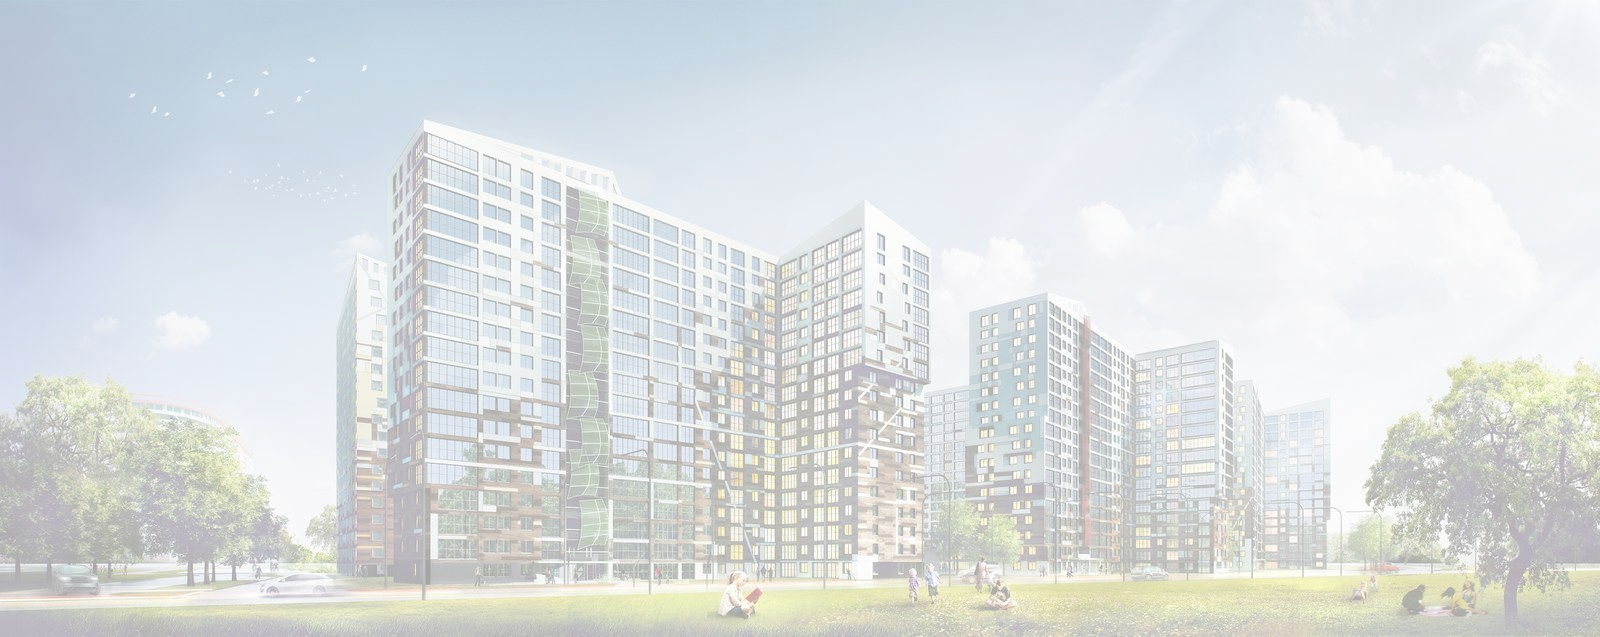
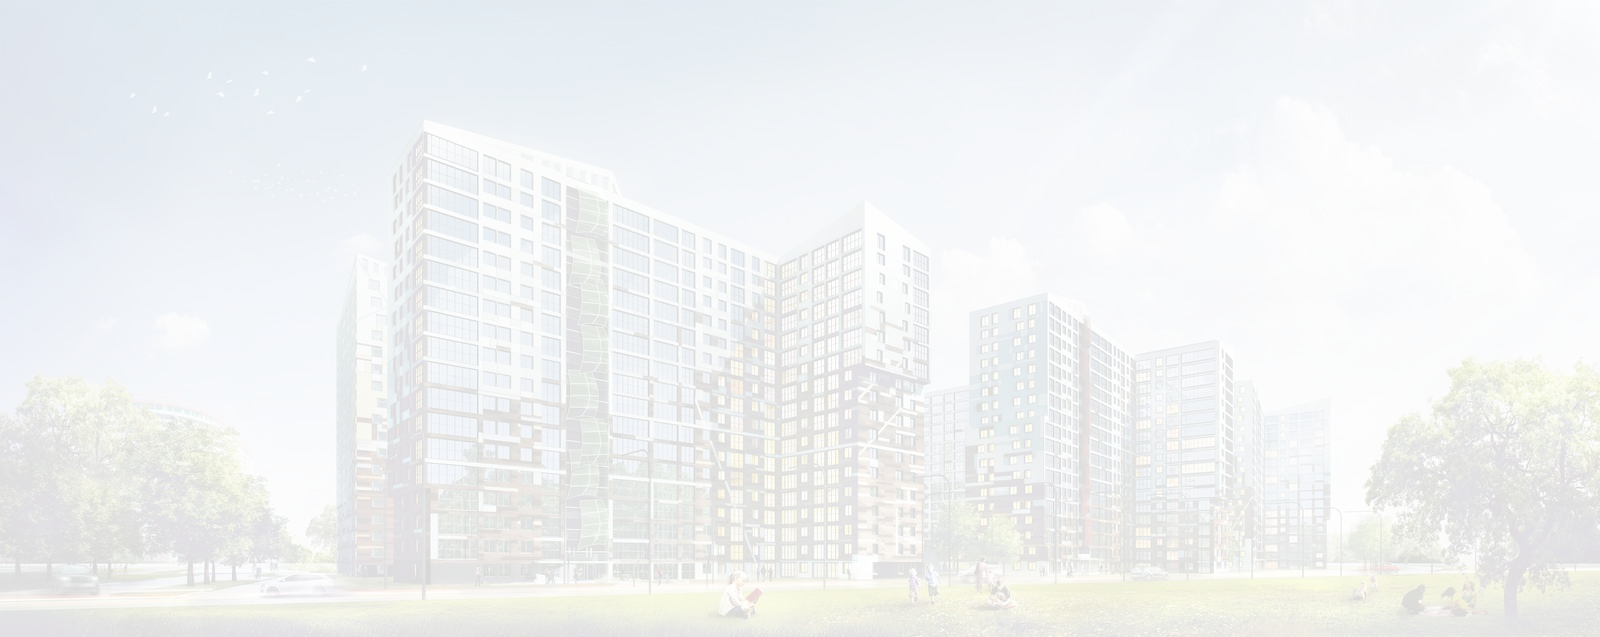
removed files

diff --git a/src/CardList.js b/src/CardList.js
@@ -59,72 +59,72 @@ const Click = (a) => {
         //main logic
         /*
         * 🖨 Печать и копирование:
-        📄1-20 страниц - 5 руб/лист,
-        📄21-40 страниц - 4 руб/лист,
-        📄41+ страниц - 3 руб/лист.
+        📄1-10 страниц - 5 руб/лист,
+        📄11-50 страниц - 4 руб/лист,
+        📄51+ страниц - 3 руб/лист.
 
         📇 Скан:
-        📄1-5 страниц - 12 руб/лист,
-        📄6-10 страниц - 10 руб/лист,
-        📄11+ страниц - 8 руб/лист.
+        📄1-20 страниц - 12 руб/лист,
+        📄21-50 страниц - 10 руб/лист,
+        📄51+ страниц - 8 руб/лист.
         * */
 
-        if (service[0].id === 1 || service[0].id === 2) {
+        if (service[0].id == 1 || service[0].id == 2) {
 
             console.log(pageCount)
 
             if (pageCount >= 1 && pageCount <= 20) {
                 result.innerHTML = 'Ваша цена составила: ' + (pageCount * 5) + ' руб.'
-                pricedesc.innerHTML = '📄1-20 страниц - 5 руб/лист,\n' +
-                    '        📄21-40 страниц - 4 руб/лист,\n' +
-                    '        📄41+ страниц - 3 руб/лист.'
+                pricedesc.innerHTML = '📄1-10 страниц - 5 руб/лист\n' +
+                    '        📄11-50 страниц - 4 руб/лист,\n' +
+                    '        📄51+ страниц - 3 руб/лист.'
             }
             if (pageCount >= 21 && pageCount <= 40) {
                 result.innerHTML = 'Ваша цена составила: ' + (pageCount * 4) + ' руб.'
-                pricedesc.innerHTML = '📄1-20 страниц - 5 руб/лист,\n' +
-                '        📄21-40 страниц - 4 руб/лист,\n' +
-                '        📄41+ страниц - 3 руб/лист.'
+                pricedesc.innerHTML = '📄1-10 страниц - 5 руб/лист\n' +
+                    '        📄11-50 страниц - 4 руб/лист,\n' +
+                    '        📄51+ страниц - 3 руб/лист.'
             }
             if (pageCount >= 41 && pageCount <= 500) {
                 result.innerHTML = 'Ваша цена составила: ' + (pageCount * 3) + ' руб.'
-                pricedesc.innerHTML = '📄1-20 страниц - 5 руб/лист,\n' +
-                '        📄21-40 страниц - 4 руб/лист,\n' +
-                '        📄41+ страниц - 3 руб/лист.'
+                pricedesc.innerHTML = '📄1-10 страниц - 5 руб/лист\n' +
+                    '        📄11-50 страниц - 4 руб/лист,\n' +
+                    '        📄51+ страниц - 3 руб/лист.'
             }
             if (pageCount < 1 || pageCount > 500) {
                 result.innerHTML = ''
                 alert('Выберите число страниц от 1 до 500')
-                pricedesc.innerHTML = '📄1-20 страниц - 5 руб/лист,\n' +
-                '        📄21-40 страниц - 4 руб/лист,\n' +
-                '        📄41+ страниц - 3 руб/лист.'
+                pricedesc.innerHTML = '📄1-20 страниц - 12 руб/лист,\n' +
+                    '        📄21-50 страниц - 10 руб/лист,\n' +
+                    '        📄51+ страниц - 8 руб/лист.'
             }
         }
 
-        if (service[0].id === 3) {
+        if (service[0].id == 3) {
             if (pageCount >= 1 && pageCount <= 5) {
                 result.innerHTML = 'Ваша цена составила: ' + (pageCount * 12) + ' руб.'
-                pricedesc.innerHTML = '📄1-5 страниц - 12 руб/лист,\n' +
-                    '        📄6-10 страниц - 10 руб/лист,\n' +
-                    '        📄11+ страниц - 8 руб/лист.'
+                pricedesc.innerHTML = '📄1-20 страниц - 12 руб/лист,\n' +
+                    '        📄21-50 страниц - 10 руб/лист,\n' +
+                    '        📄51+ страниц - 8 руб/лист.'
             }
             if (pageCount >= 6 && pageCount <= 10) {
                 result.innerHTML = 'Ваша цена составила: ' + (pageCount * 10) + ' руб.'
-                pricedesc.innerHTML = '📄1-5 страниц - 12 руб/лист,\n' +
-                    '        📄6-10 страниц - 10 руб/лист,\n' +
-                    '        📄11+ страниц - 8 руб/лист.'
+                pricedesc.innerHTML = '📄1-20 страниц - 12 руб/лист,\n' +
+                    '        📄21-50 страниц - 10 руб/лист,\n' +
+                    '        📄51+ страниц - 8 руб/лист.'
             }
             if (pageCount >= 11 && pageCount <= 500) {
                 result.innerHTML = 'Ваша цена составила: ' + (pageCount * 8) + ' руб.'
-                pricedesc.innerHTML = '📄1-5 страниц - 12 руб/лист,\n' +
-                    '        📄6-10 страниц - 10 руб/лист,\n' +
-                    '        📄11+ страниц - 8 руб/лист.'
+                pricedesc.innerHTML = '📄1-20 страниц - 12 руб/лист,\n' +
+                    '        📄21-50 страниц - 10 руб/лист,\n' +
+                    '        📄51+ страниц - 8 руб/лист.'
             }
             if (pageCount < 1 || pageCount > 500) {
                 result.innerHTML = ''
                 alert('Выберите число страниц от 1 до 500')
-                pricedesc.innerHTML = '📄1-5 страниц - 12 руб/лист,\n' +
-                    '        📄6-10 страниц - 10 руб/лист,\n' +
-                    '        📄11+ страниц - 8 руб/лист.'
+                pricedesc.innerHTML = '📄1-20 страниц - 12 руб/лист,\n' +
+                    '        📄21-50 страниц - 10 руб/лист,\n' +
+                    '        📄51+ страниц - 8 руб/лист.'
             }
         }
     }

diff --git a/src/index.css b/src/index.css
@@ -7,7 +7,7 @@ body {
   -moz-osx-font-smoothing: grayscale;
   background-color: rgb(230, 244, 255);
 
-  background-image: url('./img/background2.png');
+  background-image: url('./img/background.png');
   background-repeat: no-repeat;
   background-attachment: fixed;
   background-size: cover;
